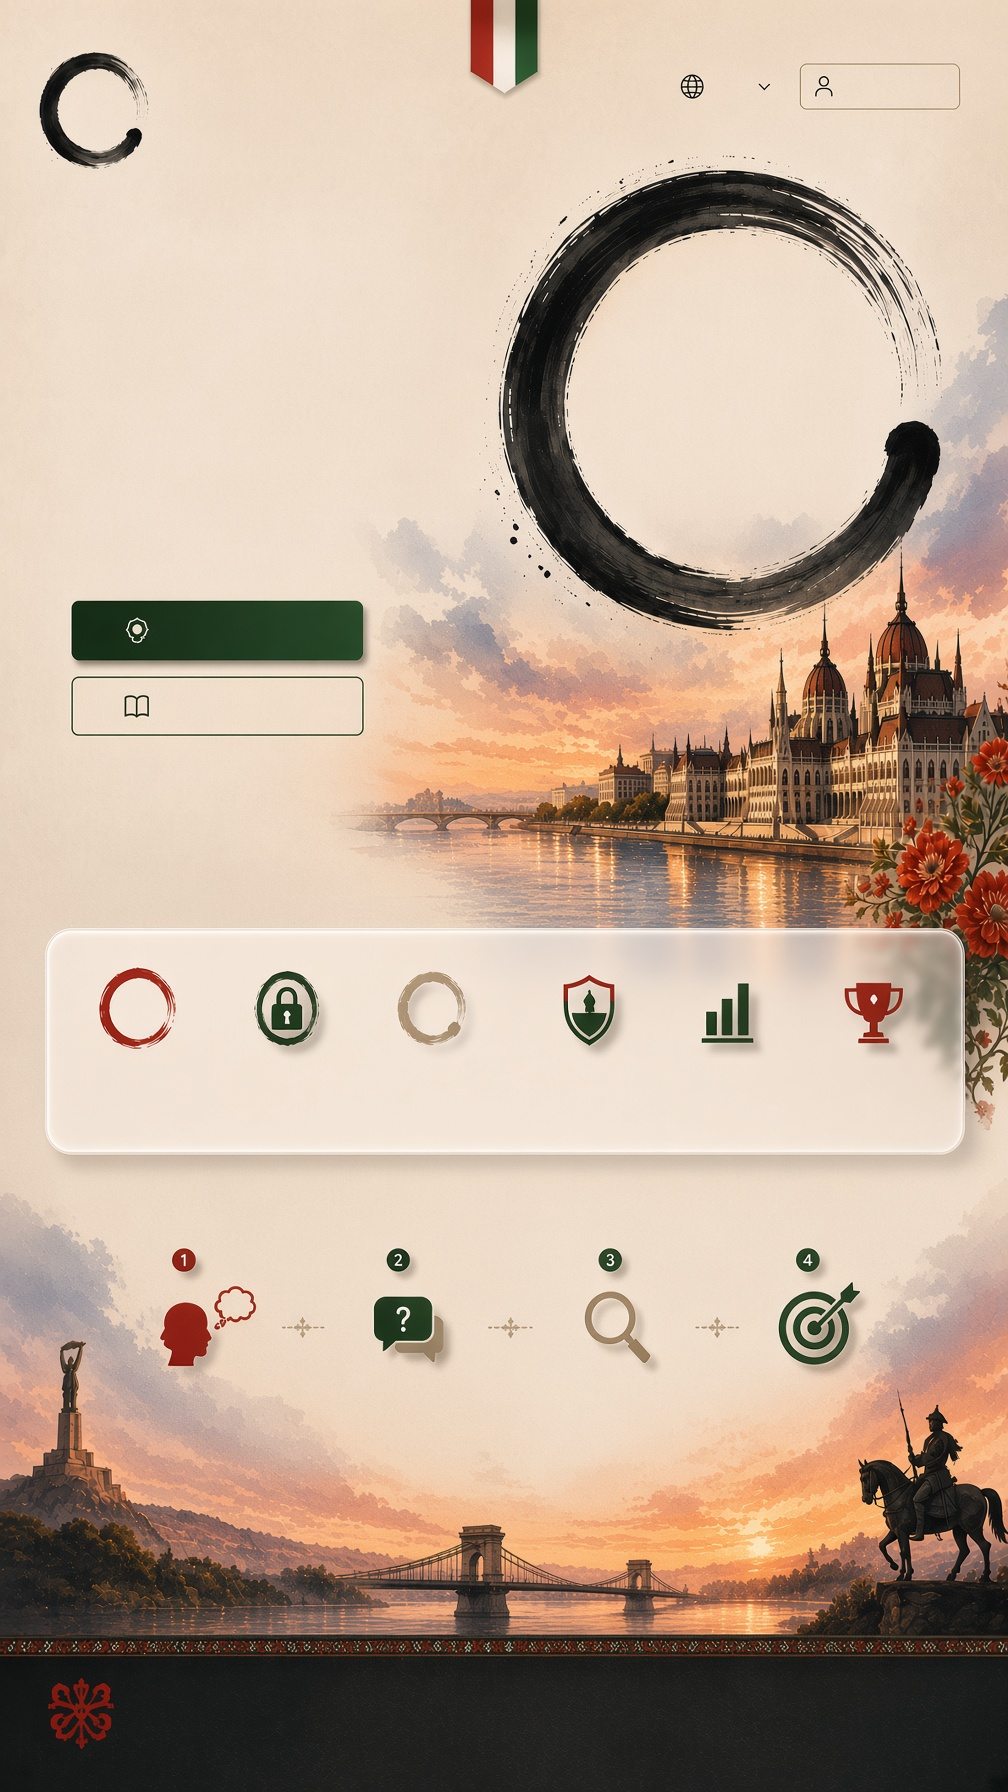
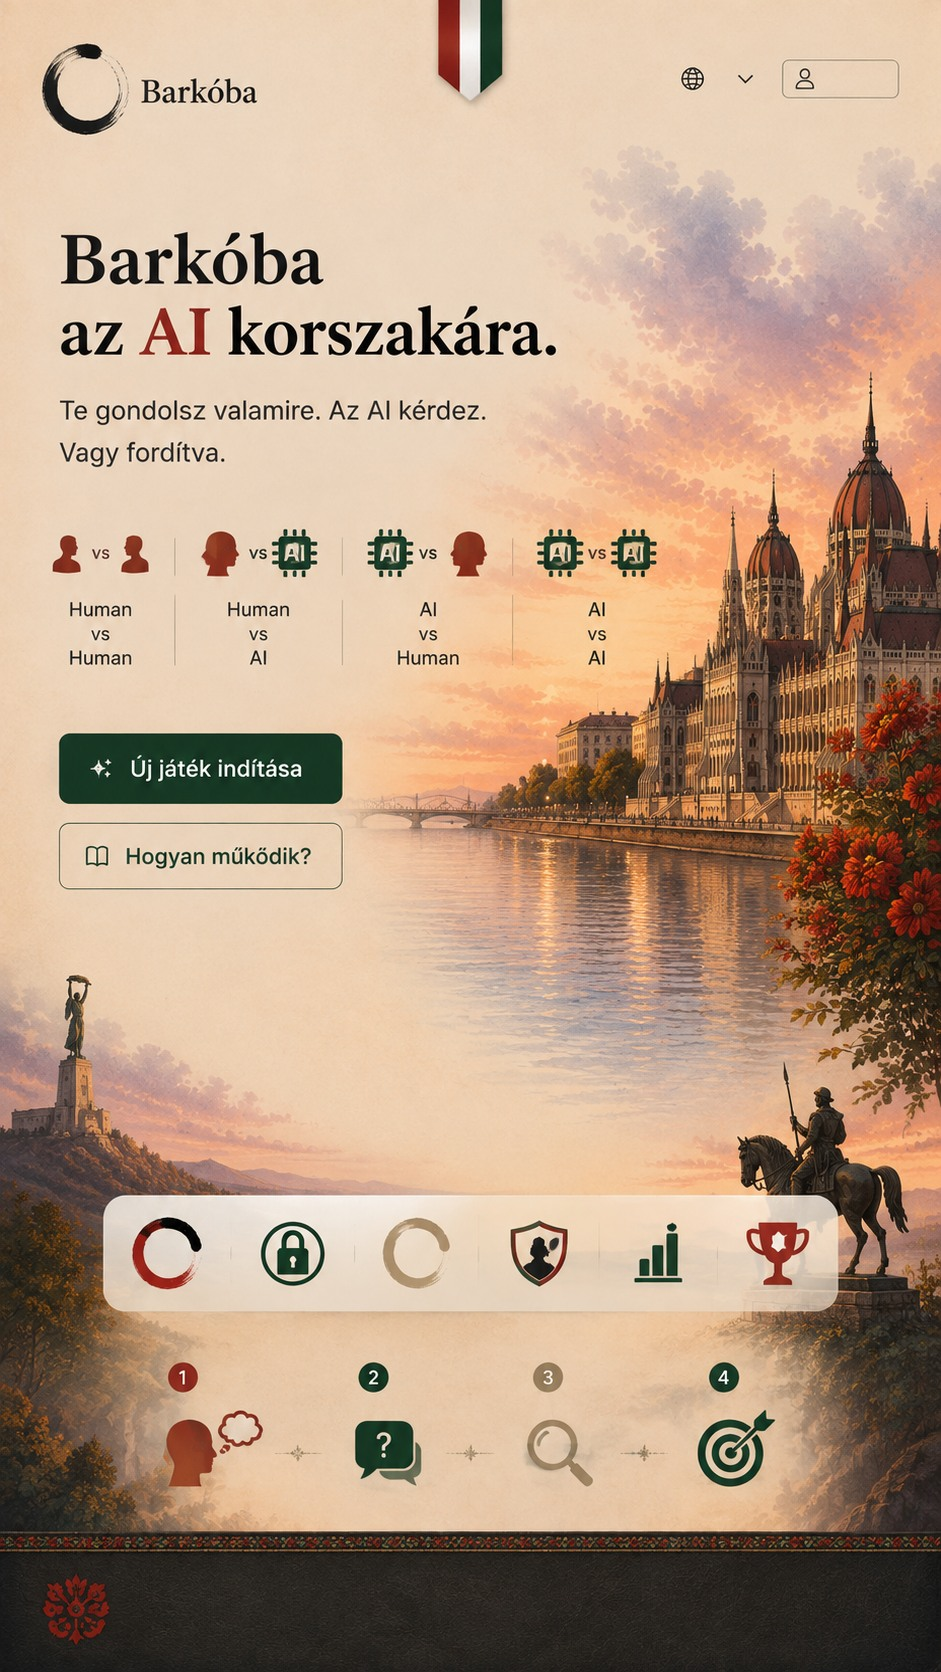
UI: Enso-free mobile hero art + new positioning headline
Replaces public/art/stage-portrait.jpg with the approved Enso-free 9:16
artwork (same asset-loading path and aspect ratio, no Stage.tsx change
needed; converted from the source PNG to JPEG at quality 92 to match
the existing format and keep payload size comparable). Tablet/wide
artwork is untouched.

Hero copy (lib/ui/copy.ts) replaces the old three-line explanatory
headline and support text with a positioning statement and the four
supported play relationships:

  Barkóba / az AI korszakára.
  Ember <-> Ember / Ember -> AI / AI -> Ember / AI <-> AI

Pure content change through the existing hero rendering in
FrontDoor.tsx — no new components, no markup/CSS changes, no game
mechanics, entitlement, or navigation logic touched.

diff --git a/lib/ui/copy.ts b/lib/ui/copy.ts
@@ -18,8 +18,8 @@ export const copy = {
   },
 
   hero: {
-    headline: ["Gondolj valamire.", "Az AI 20 kérdést kap.", "Egyetlen tippje van."],
-    support: ["Zárd le a gondolatod.", "Figyeld, kérdez, következtet.", "Kitalálja?"],
+    headline: ["Barkóba", "az AI korszakára."],
+    support: ["Ember ↔ Ember", "Ember → AI", "AI → Ember", "AI ↔ AI"],
     primary: "Új játék indítása",
     secondary: "Hogyan működik?",
   },
